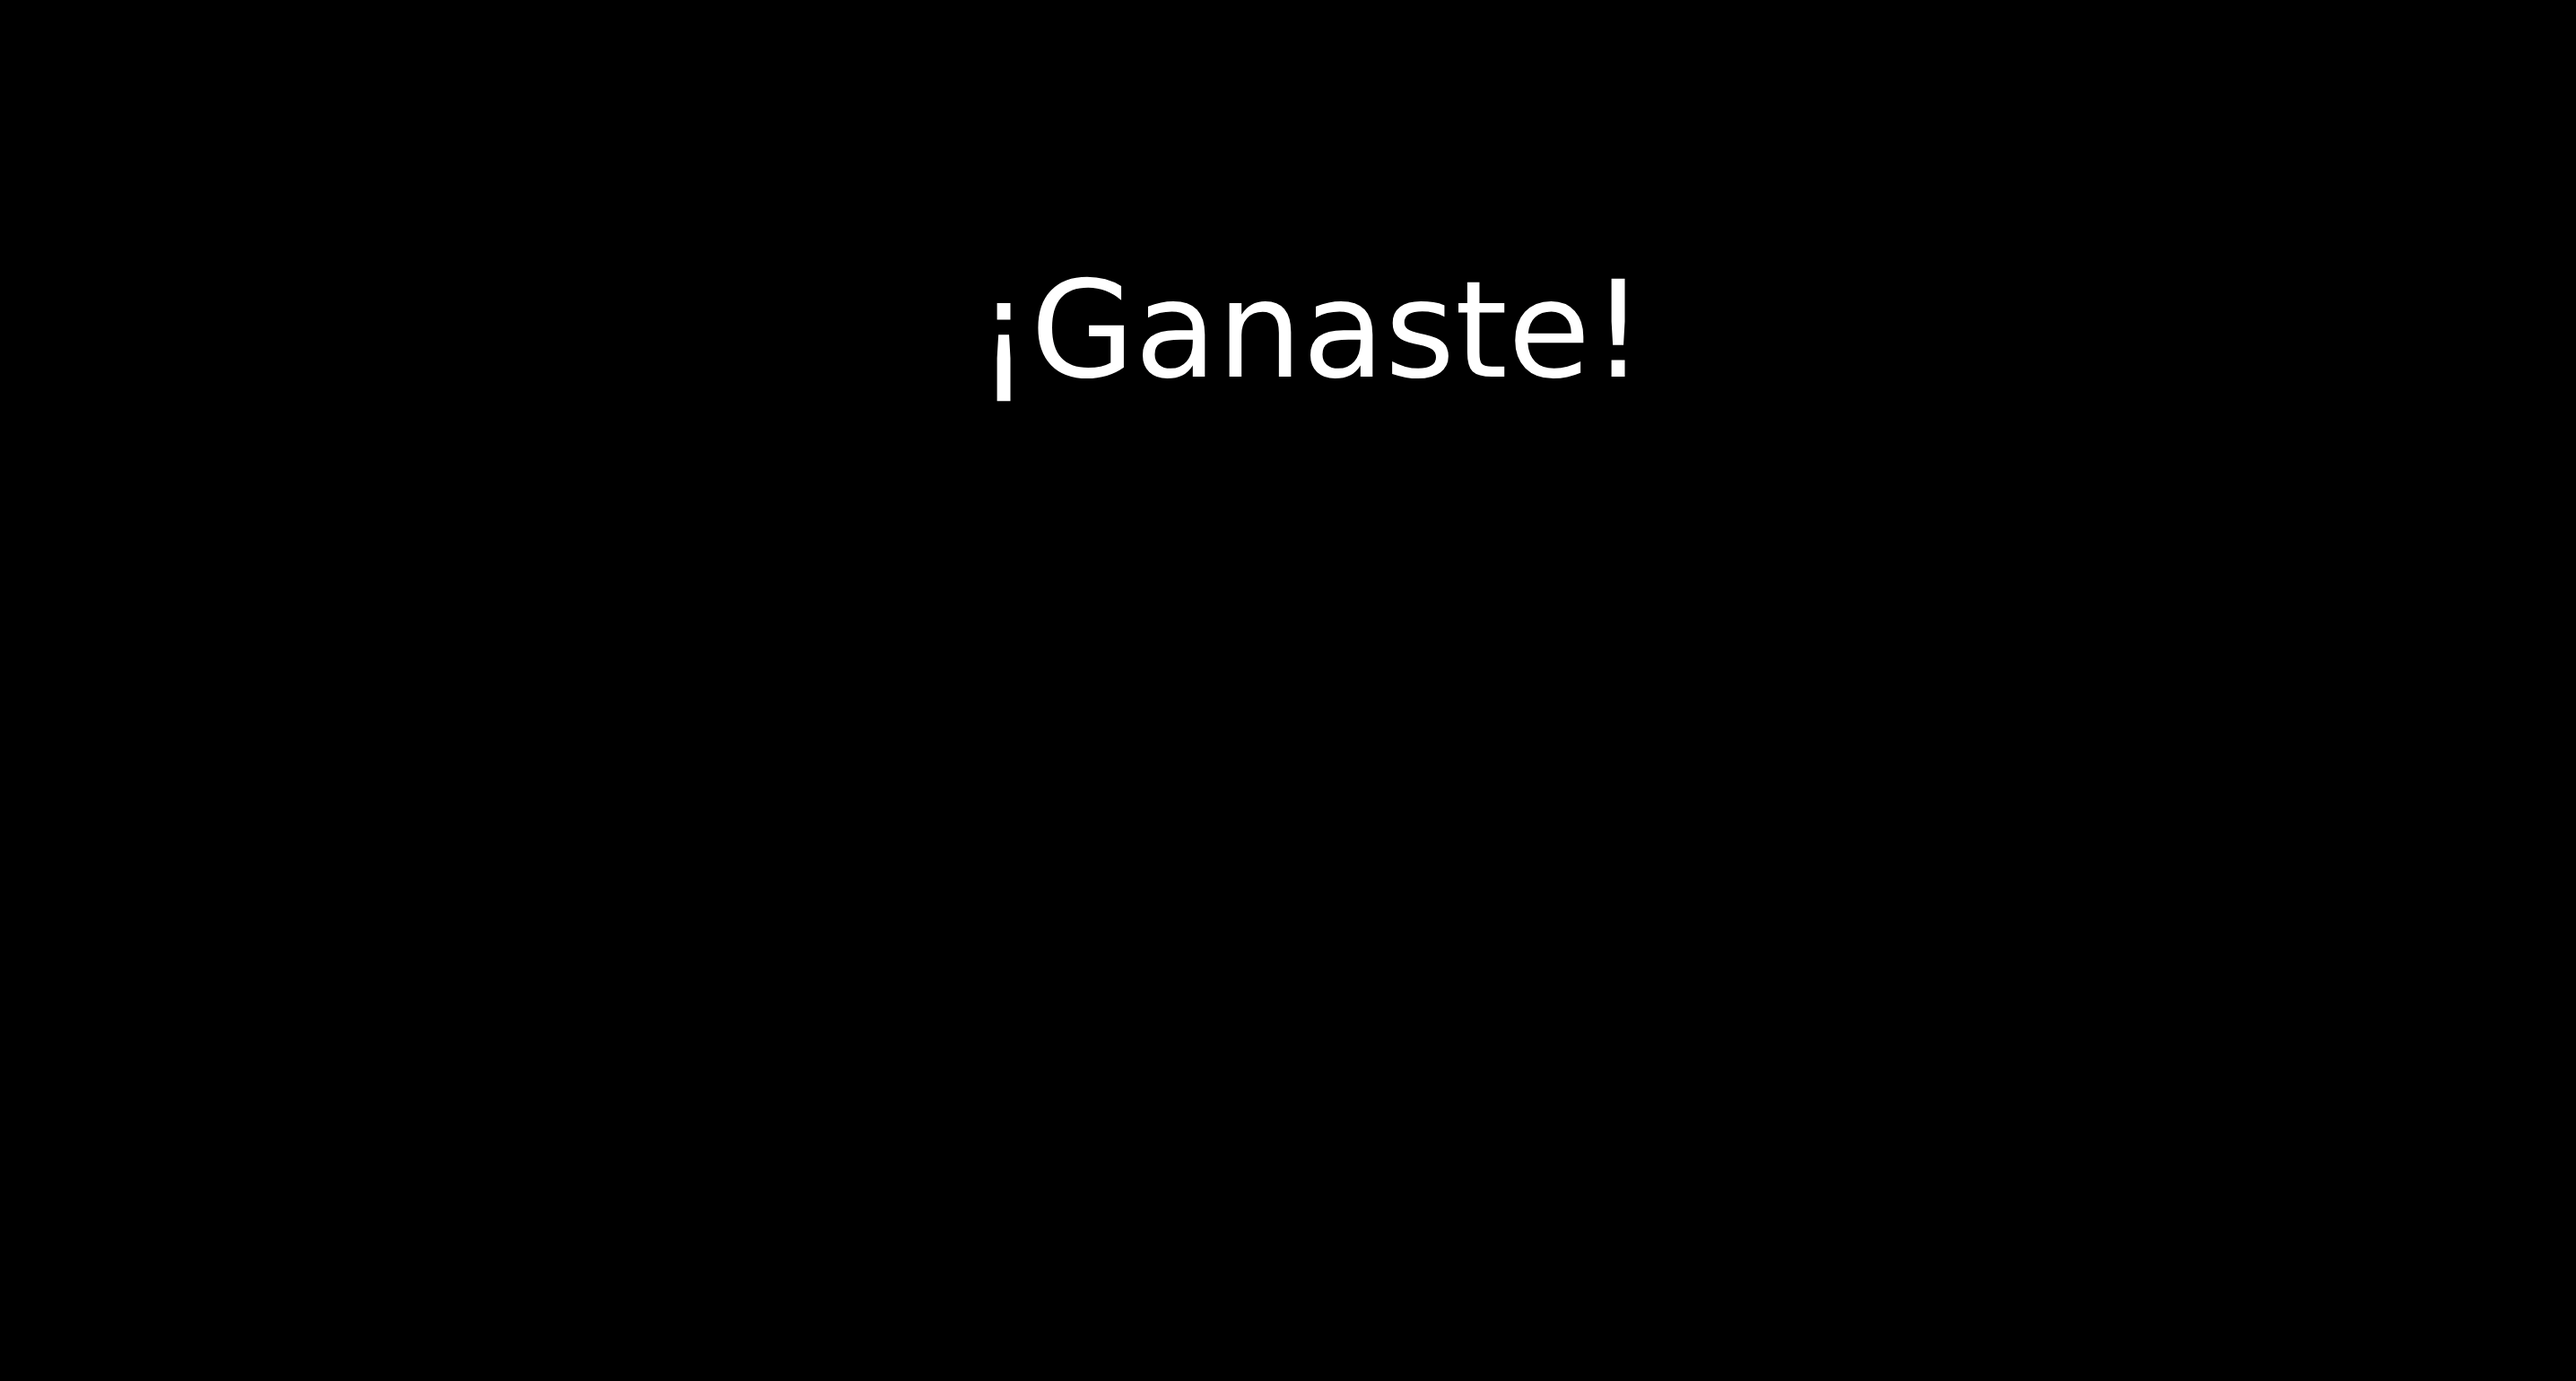
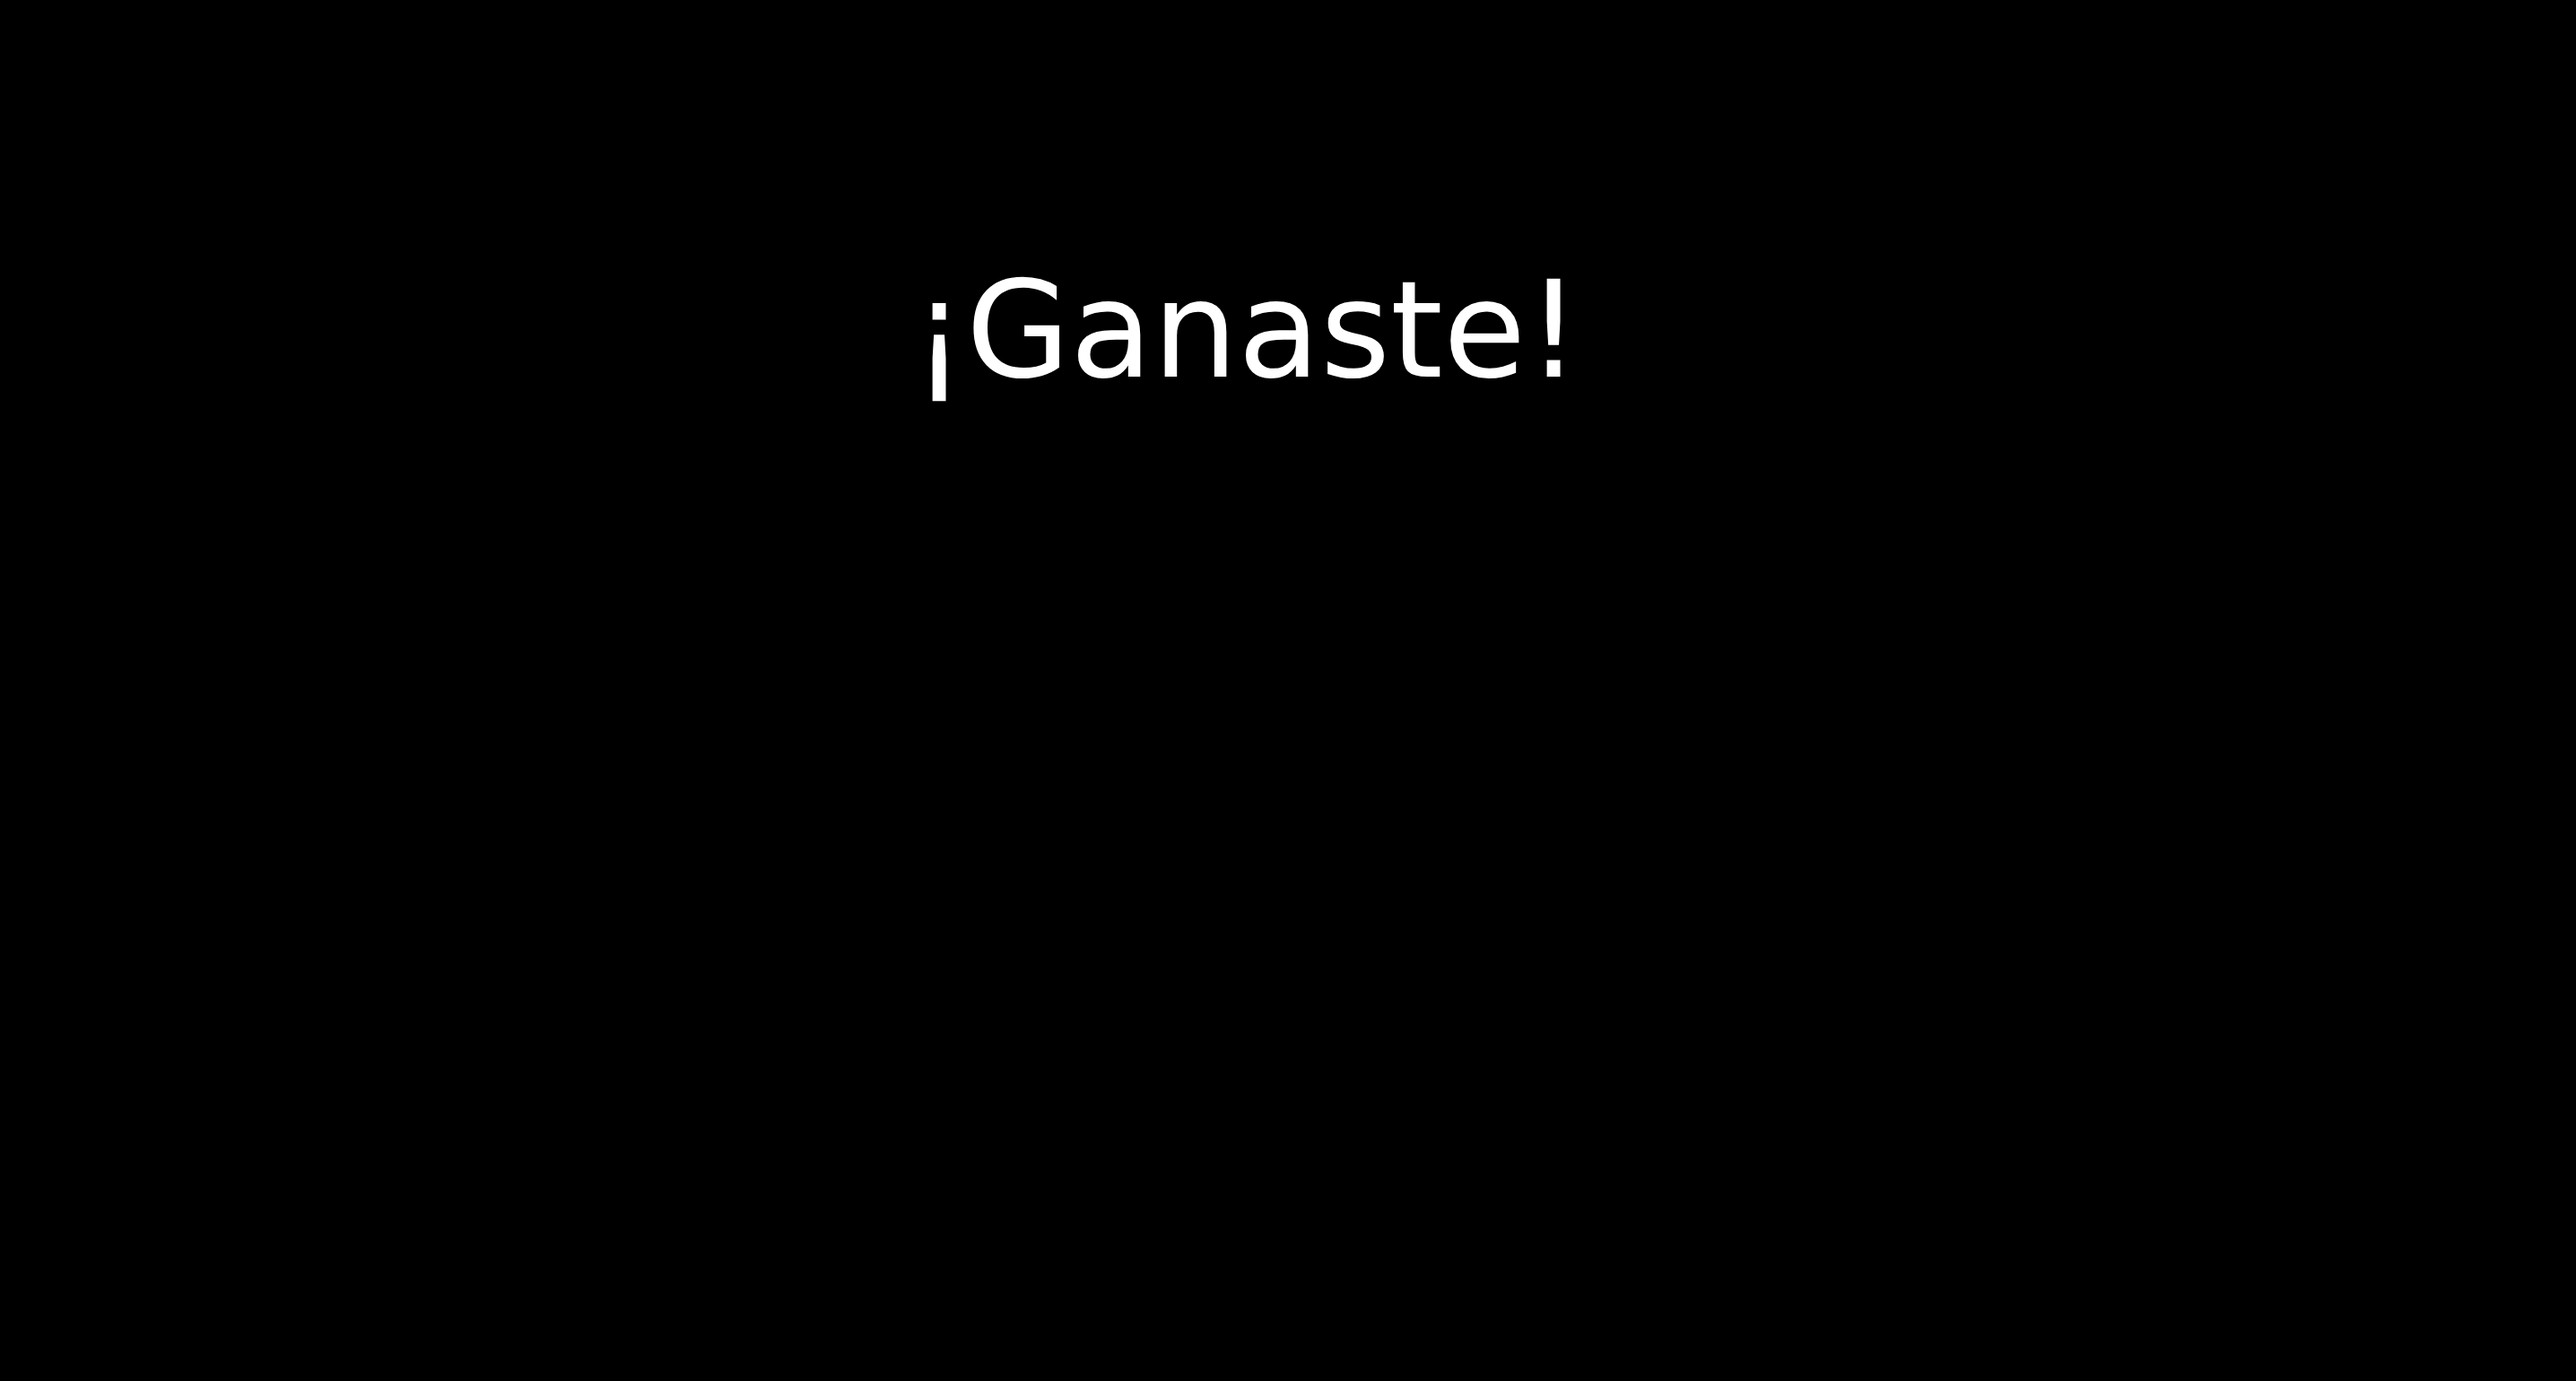
retoques

Changed region(s): [[0.3409, 0.187, 0.6508, 0.2805]]

diff --git a/game.c b/game.c
@@ -170,7 +170,7 @@ void notifyItemPickup(Game *game, const char *itemName)
 void notifyDoorLocked(Game *game)
 {
   char text[TEXT_BOX_MAX_TEXT_LENGTH];
-  snprintf(text, sizeof(text), "Door is locked\n");
+  snprintf(text, sizeof(text), "Puerta trabada\n");
   addTextToTextBox(&game->ui.textBoxUI, text);
   changeGameState(game, UI_INTERRUPTION);
 }
@@ -178,7 +178,7 @@ void notifyDoorLocked(Game *game)
 void notifyDoorUnlocked(Game *game, const char *itemName)
 {
   char text[TEXT_BOX_MAX_TEXT_LENGTH];
-  snprintf(text, sizeof(text), "Door unlocked with %s\n", itemName);
+  snprintf(text, sizeof(text), "Puerta abierta con %s\n", itemName);
   addTextToTextBox(&game->ui.textBoxUI, text);
   changeGameState(game, UI_INTERRUPTION);
 }
